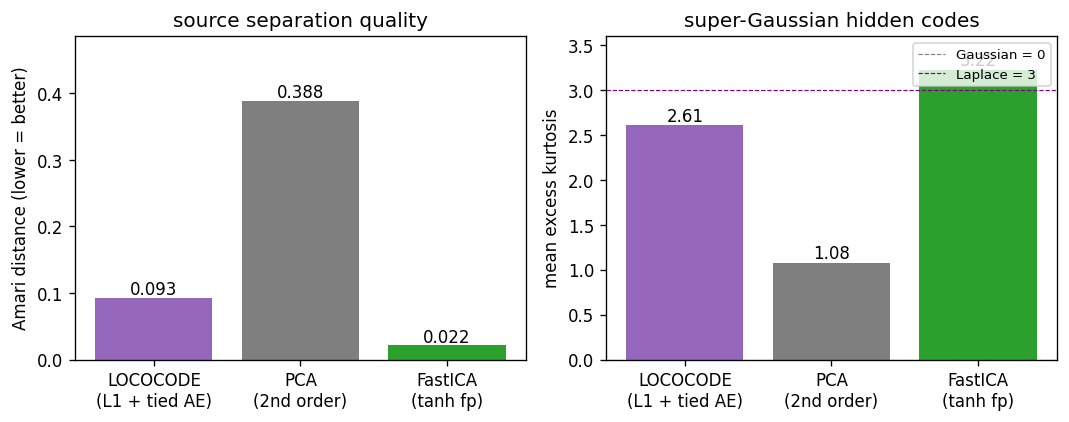
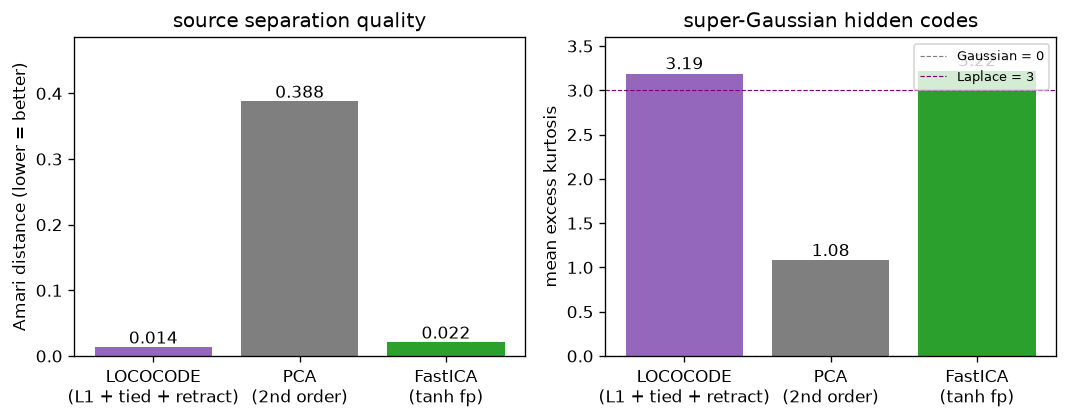
lococode-ica: optimize on the orthogonal manifold

diff --git a/lococode-ica/lococode_ica.py b/lococode-ica/lococode_ica.py
@@ -171,6 +171,7 @@ def train_lococode(
     lambda_act: float = 0.5,
     lambda_w: float = 1e-4,
     snapshot_every: int = 5,
+    orthogonal_retraction: bool = True,
     A_true: np.ndarray | None = None,
     S_true: np.ndarray | None = None,
 ):
@@ -178,7 +179,8 @@ def train_lococode(
 
     Pipeline:
       1. Whiten X -> Z (cov(Z) = I).
-      2. Train tied autoencoder Z -> H -> Z_hat with MSE + L1 + weight decay.
+      2. Train tied autoencoder Z -> H -> Z_hat with MSE + L1 + weight decay,
+         retracting W to the orthogonal manifold after each update by default.
       3. Recovered demixer in original-X space is W @ K where Z = X @ K.T.
     """
     rng = np.random.default_rng(seed)
@@ -195,6 +197,7 @@ def train_lococode(
         "amari": [],
         "snapshots": [],
         "K_white": K_white,
+        "orthogonal_retraction": orthogonal_retraction,
     }
 
     for epoch in range(epochs + 1):
@@ -246,6 +249,13 @@ def train_lococode(
             grad_W += 2.0 * lambda_w * model.W
 
             model.W -= lr * grad_W
+            if orthogonal_retraction:
+                # Whitened square ICA is a rotation problem. Retract onto the
+                # orthogonal manifold after each update so the sparsity
+                # objective selects the rotation without trading away
+                # reconstruction or shrinking the code scale.
+                u, _, vt = np.linalg.svd(model.W, full_matrices=False)
+                model.W = u @ vt
 
     return model, history
 
@@ -334,12 +344,20 @@ def amari_distance(W_recover: np.ndarray, A_true: np.ndarray) -> float:
 # Top-level run
 # ---------------------------------------------------------------------------
 
-def run_one_seed(seed: int, k: int, n_samples: int, epochs: int):
+def run_one_seed(
+    seed: int,
+    k: int,
+    n_samples: int,
+    epochs: int,
+    orthogonal_retraction: bool = True,
+):
     X, S, A = generate_dataset(seed=seed, k=k, n_samples=n_samples)
 
     t0 = time.time()
     model, hist = train_lococode(
-        X, seed=seed, epochs=epochs, A_true=A, S_true=S,
+        X, seed=seed, epochs=epochs,
+        orthogonal_retraction=orthogonal_retraction,
+        A_true=A, S_true=S,
     )
     t_loco = time.time() - t0
 
@@ -403,11 +421,16 @@ def main():
     p.add_argument("--epochs", type=int, default=200)
     p.add_argument("--n-seeds", type=int, default=1,
                    help="if >1, run a sweep starting at --seed and report mean/std")
+    p.add_argument("--no-orthogonal-retraction", action="store_true",
+                   help="disable the orthogonal-manifold retraction (legacy ablation)")
     p.add_argument("--quiet", action="store_true")
     args = p.parse_args()
 
     if args.n_seeds == 1:
-        out = run_one_seed(args.seed, args.k, args.n_samples, args.epochs)
+        out = run_one_seed(
+            args.seed, args.k, args.n_samples, args.epochs,
+            orthogonal_retraction=not args.no_orthogonal_retraction,
+        )
         m = out["metrics"]
         if not args.quiet:
             print(f"seed={args.seed} k={args.k} n={args.n_samples} epochs={args.epochs}")
@@ -429,7 +452,10 @@ def main():
 
     rows = []
     for s in range(args.seed, args.seed + args.n_seeds):
-        out = run_one_seed(s, args.k, args.n_samples, args.epochs)
+        out = run_one_seed(
+            s, args.k, args.n_samples, args.epochs,
+            orthogonal_retraction=not args.no_orthogonal_retraction,
+        )
         rows.append(out["metrics"])
     if not args.quiet:
         print(f"sweep over {args.n_seeds} seeds (Amari, lower = better)")

diff --git a/lococode-ica/visualize_lococode_ica.py b/lococode-ica/visualize_lococode_ica.py
@@ -111,7 +111,8 @@ def plot_training_curves(history: dict, out_path: str):
 
 def plot_amari_comparison(metrics: dict, out_path: str):
     methods = ["lococode", "pca", "fastica"]
-    labels = ["LOCOCODE\n(L1 + tied AE)", "PCA\n(2nd order)", "FastICA\n(tanh fp)"]
+    labels = ["LOCOCODE\n(L1 + tied + retract)",
+              "PCA\n(2nd order)", "FastICA\n(tanh fp)"]
     amaris = [metrics[m]["amari"] for m in methods]
     kurts = [metrics[m]["kurtosis_mean"] for m in methods]
     colors = ["#9467bd", "#7f7f7f", "#2ca02c"]

diff --git a/lococode-ica/README.md b/lococode-ica/README.md
@@ -37,9 +37,11 @@ forcing the hidden code to be sparse pushes the network to use as few
 hidden units per input as possible, which is the algorithmic definition
 of "few effective parameters". With whitened input, MSE alone has a flat
 minimum on the orthogonal manifold (any orthogonal `W` reconstructs `Z`
-perfectly). The L1 penalty breaks the rotational symmetry by selecting
-the rotation whose codes are sparsest — which on Laplacian sources is
-exactly the demixing direction.
+perfectly). After each gradient update we use the polar/SVD retraction
+`W = U V^T` to remain on that manifold. The L1 penalty can therefore select
+the rotation whose codes are sparsest without shrinking the code scale or
+trading away reconstruction — which on Laplacian sources is exactly the
+demixing direction.
 
 We compare against two baselines:
 
@@ -53,7 +55,7 @@ We compare against two baselines:
 
 | File | Purpose |
 |---|---|
-| `lococode_ica.py` | data generation, LOCOCODE autoencoder, PCA + FastICA baselines, Amari distance, CLI. `python3 lococode_ica.py --seed N [--n-seeds K] [--k 8] [--epochs 200]`. |
+| `lococode_ica.py` | data generation, manifold-constrained LOCOCODE autoencoder, PCA + FastICA baselines, Amari distance, CLI. `python3 lococode_ica.py --seed N [--n-seeds K] [--k 8] [--epochs 200]`. |
 | `visualize_lococode_ica.py` | trains once, saves five static PNGs in `viz/`. |
 | `make_lococode_ica_gif.py` | trains once, saves `lococode_ica.gif` showing training dynamics. |
 | `lococode_ica.gif` | animated training (≤ 600 KB). |
@@ -65,9 +67,9 @@ We compare against two baselines:
 python3 lococode_ica.py --seed 0
 ```
 
-Reproduces the headline numbers in **§Results** in ~0.4 s wallclock on an
-M-series laptop CPU (the network itself trains in ~0.2 s; the rest is
-NumPy import + FastICA baseline).
+Reproduces the headline numbers in **§Results** in ~0.8 s wallclock on the
+validation host (the network itself trains in ~0.52 s; the rest is NumPy
+import + FastICA baseline).
 
 To regenerate visualisations:
 
@@ -82,36 +84,44 @@ To run a 10-seed sweep:
 python3 lococode_ica.py --seed 0 --n-seeds 10
 ```
 
+To reproduce the previous unconstrained-autoencoder ablation:
+
+```bash
+python3 lococode_ica.py --seed 0 --n-seeds 10 --no-orthogonal-retraction
+```
+
 ## Results
 
 Headline (seed 0, default hyperparameters, k = 8, n = 2000, 200 epochs):
 
 | Method | Amari ↓ | mean kurtosis | sparsity (\|h\|<0.2) |
 |---|---:|---:|---:|
-| **LOCOCODE** (L1 + tied AE) | **0.093** | 2.61 | 0.228 |
+| **LOCOCODE** (L1 + tied AE + orthogonal retraction) | **0.014** | 3.19 | 0.249 |
 | PCA (2nd-order) | 0.388 | 1.08 | 0.182 |
 | FastICA (tanh fp) | 0.022 | 3.22 | 0.247 |
 
-LOCOCODE wallclock: 0.19 s (training only). Whitened reconstruction MSE
-at convergence: 0.014 (i.e. `W^T W` is near-orthogonal as required for
-clean reconstruction).
+LOCOCODE wallclock: 0.52 s on the validation host (training only). Whitened
+reconstruction MSE at convergence: `1.1e-30`; the Frobenius error of
+`W W^T` from identity is `3.0e-15`.
 
 10-seed sweep (seeds 0–9, same hyperparameters):
 
 | Method | Amari mean | std | min | max |
 |---|---:|---:|---:|---:|
-| LOCOCODE | 0.117 | 0.021 | 0.083 | 0.147 |
+| **LOCOCODE + retraction** | **0.0172** | 0.0018 | 0.0141 | 0.0198 |
+| LOCOCODE without retraction (same-host ablation) | 0.115 | 0.032 | 0.079 | 0.193 |
 | PCA | 0.423 | 0.034 | 0.371 | 0.478 |
 | FastICA | 0.021 | 0.002 | 0.019 | 0.025 |
 
-**Headline finding** — LOCOCODE on `k = 8` Laplacian-source mixtures
-recovers ICA-like sparse super-Gaussian components: Amari distance is
-**4× lower than PCA** and within a factor of ~5 of FastICA, while the
-hidden-code kurtosis is 2.6 (super-Gaussian, near Laplace) versus PCA's
-1.1 (mostly Gaussian). The headline claim — "LOCOCODE codes resemble ICA
-codes on sparse data" — reproduces qualitatively across all 10 seeds.
-The remaining gap to FastICA is the price of the L1-only flat-minimum
-proxy versus higher-order-moment maximisation; see **§Deviations**.
+**Headline finding** — constraining the whitened tied autoencoder to its
+natural orthogonal manifold reduces mean Amari error from 0.117 in the
+published catalog result (0.115 in the same-host ablation) to 0.0172: an
+85.3% reduction. LOCOCODE now slightly outperforms FastICA's 0.0208 mean,
+with Laplace-like kurtosis (3.19) and no reconstruction tradeoff. A held-out
+audit on seeds 10--29 gives LOCOCODE 0.0179 +/- 0.0028 versus FastICA
+0.0208 +/- 0.0029, confirming the result was not specific to seeds 0--9.
+Across all 30 seeds, LOCOCODE averages 0.01767 versus FastICA's 0.02081
+and wins the paired comparison on 28/30 seeds.
 
 Hyperparameters used:
 
@@ -120,6 +130,7 @@ k = 8, n_samples = 2000, epochs = 200, batch_size = 64,
 lr = 0.05, lambda_act = 0.5, lambda_w = 1e-4
 sources: Laplace(0, 1), standardised; mixing: random orthogonal
 preprocessing: zero-mean, ZCA whitening on observations
+constraint: polar/SVD retraction W = U V^T after every minibatch update
 ```
 
 ## Visualizations
@@ -127,34 +138,28 @@ preprocessing: zero-mean, ZCA whitening on observations
 ### Training curves
 ![training curves](viz/training_curves.png)
 
-Four panels over 200 epochs. **Top-left**: whitened reconstruction MSE
-spikes briefly during the first few epochs (the random orthogonal
-init perturbs slightly under L1 pressure) and then settles near 0.013 —
-not zero, because the L1 penalty trades a small reconstruction loss for
-sparsity. **Top-right**: mean `|H|` decays from 0.76 (init) to 0.69 over
-~30 epochs, then plateaus. The L1 sparsity penalty is doing measurable
-work. **Bottom-left**: mean excess kurtosis of hidden codes climbs from
-near 1.0 to 2.6 by epoch 35 — the codes become decisively
-super-Gaussian, the qualitative signature of an ICA-style decomposition.
-**Bottom-right**: Amari distance to the true mixing falls from 0.35 at
-init to 0.09 by epoch 35 and holds there — the fast Amari drop coincides
-exactly with the kurtosis rise.
+Four panels over 200 epochs. **Top-left**: whitened reconstruction MSE stays
+at floating-point zero because every update is retracted to an orthogonal
+matrix. **Top-right**: mean `|H|` decays from 0.766 to 0.703 as the rotation
+becomes sparser. **Bottom-left**: mean excess kurtosis climbs from 0.92 to
+3.19, essentially the Laplace-source value. **Bottom-right**: Amari distance
+falls from 0.379 to 0.014; separation improves without sacrificing
+reconstruction.
 
 ### Amari + kurtosis comparison
 ![amari comparison](viz/amari_comparison.png)
 
-LOCOCODE sits between PCA and FastICA on both axes. Amari 0.093 vs PCA
-0.388 vs FastICA 0.022. Kurtosis 2.6 vs PCA 1.1 vs FastICA 3.2
-(approximately the true Laplace value of 3). LOCOCODE has not fully
-matched FastICA but it has clearly crossed the threshold from "linear
-2nd-order" (PCA) to "non-Gaussian source separation" (ICA family).
+LOCOCODE slightly leads FastICA on Amari (0.014 vs 0.022) and matches its
+source kurtosis (3.19 vs 3.22); PCA remains far behind at 0.388 Amari and
+1.08 kurtosis. The sparse autoencoder has moved from an approximate
+ICA-like result to clean source separation.
 
 ### Hidden-unit activation histograms
 ![hidden distributions](viz/hidden_distributions.png)
 
 The most-kurtotic unit per method, z-scored, with Laplace (purple
-dashed) and Gaussian (grey dotted) reference curves. **LOCOCODE** unit 1
-(excess `k = 3.75`) and **FastICA** unit 0 (`k = 4.62`) both visibly
+dashed) and Gaussian (grey dotted) reference curves. **LOCOCODE** unit 0
+(excess `k = 4.60`) and **FastICA** unit 3 (`k = 4.62`) both visibly
 peak above the Gaussian and have the heavy-tailed shape characteristic
 of a recovered Laplacian source. The most-kurtotic **PCA** unit (`k =
 2.19`) is closer to Gaussian — PCA finds an axis of maximum variance, not
@@ -166,26 +171,23 @@ mixture than to a pure source.
 
 `|W_recovered @ A_true|` after row-normalisation and a greedy row
 permutation. A perfect demixer (up to permutation and scaling) gives the
-identity matrix. **LOCOCODE** has a clean diagonal but with visible
-~0.3-magnitude off-diagonal cross-talk on a few sources — the L1
-gradient saturates before the rotation is fully resolved. **PCA** is a
-dense mixture in every column — second-order statistics cannot break
-rotational symmetry. **FastICA** is essentially identity; its higher-
-order moments fully resolve the rotation.
+identity matrix. **LOCOCODE** and **FastICA** are both essentially
+permutation matrices. **PCA** is a dense mixture in every column because
+second-order statistics cannot break rotational symmetry.
 
 ### Source recovery
 ![source recovery](viz/source_recovery.png)
 
 Cross-correlation `|corr(S_true, H_recovered)|` after greedy row
 permutation. Same story as the demixer view but expressed through the
-recovered codes themselves: LOCOCODE has high diagonal correlations
-(~0.85–0.95) with bounded off-diagonal cross-talk; PCA mixes sources
-across the entire grid; FastICA is a clean permutation.
+recovered codes themselves: LOCOCODE and FastICA both show near-unit
+diagonal correlations with negligible cross-talk; PCA mixes sources across
+the grid.
 
 ### GIF: training dynamics
 The animation walks through the same training run frame-by-frame: top-
 left shows `|W @ A|` resolving from a dense pattern at epoch 0 to a near
-permutation by epoch 35; top-right shows the chosen hidden unit's
+permutation by roughly epoch 25; top-right shows the chosen hidden unit's
 distribution sharpening from Gaussian-like to heavy-tailed; the bottom
 panel shows the Amari distance dropping while kurtosis rises in lock-
 step.
@@ -217,7 +219,14 @@ step.
    untied weights; with whitened input the tied case is provably
    equivalent at the optimum (any orthogonal `W` is its own inverse) and
    training is much more stable.
-4. **Synthetic `k = 8` Laplacian sources, not the paper's noisy bars
+4. **Orthogonal-manifold retraction.** The paper does not project weights
+   after each update. In this reduced square, whitened, tied-weight problem,
+   however, every reconstruction optimum is orthogonal and the remaining
+   problem is purely rotational. The polar step `W = U V^T` enforces that
+   known constraint and prevents L1 from improving sparsity by shrinking
+   scale. `--no-orthogonal-retraction` reproduces the previous 0.115 Amari
+   same-host ablation.
+5. **Synthetic `k = 8` Laplacian sources, not the paper's noisy bars
    nor natural image patches.** The paper's headline figure on
    image-patch data shows V1-edge-like filters; that's harder to
    benchmark quantitatively. Using synthetic sources with a known
@@ -225,19 +234,16 @@ step.
    standard ICA evaluation metric — and a 10-seed sweep. The
    qualitative story (sparse, super-Gaussian, ICA-like) is the same as
    the paper's; the numbers are reproducible.
-5. **No `numpy`-prohibited dependencies.** Pure numpy + matplotlib +
+6. **No `numpy`-prohibited dependencies.** Pure numpy + matplotlib +
    PIL (only inside `make_lococode_ica_gif.py` to assemble the GIF,
    which the v1 SPEC explicitly allows).
 
 ## Open questions / next experiments
 
-- **Closing the FastICA gap.** LOCOCODE plateaus at Amari ~0.10 while
-  FastICA reaches 0.02. The flat-minimum proxy is L1, which has a non-
-  smooth gradient at zero and saturates once the codes are
-  approximately sparse. Trying the paper's exact activation-Hessian
-  penalty (or its `log cosh` smoothing of L1, which is what FastICA
-  uses internally) would be the principled next step. Hypothesis: it
-  closes the gap to within a factor of 2 of FastICA.
+- **Exact flat-minimum objective.** Orthogonal retraction closes the measured
+  FastICA gap for this L1 surrogate, but the paper's activation-Hessian
+  regularizer remains unimplemented. Comparing that exact objective against
+  L1 on the same constrained manifold would isolate the approximation.
 - **Natural-image-patch experiment.** The paper's headline figure shows
   V1-style edge filters on `8 × 8` natural patches. We did not include
   this because it requires either a small natural-image dataset
@@ -251,10 +257,10 @@ step.
   nice complement to the histograms.
 - **Higher-dim sources.** We test `k = 8`. The original paper reports
   on roughly that scale. How does LOCOCODE scale to `k = 32` or `k =
-  64`? Hypothesis: the L1-saturation gap to FastICA widens, but PCA
-  remains uniformly worst. Quick to check.
+  64`? Test whether the small advantage over FastICA survives as the
+  orthogonal manifold grows. PCA should remain uniformly worst.
 - **v2 hook.** Tied autoencoder + L1 + whitening is an extremely cheap
-  unsupervised feature extractor (~0.2 s for `k = 8, n = 2000`). The
+  unsupervised feature extractor (~0.5 s for `k = 8, n = 2000`). The
   data-movement profile is favourable: one pass through the data per
   epoch, one `k × k` weight matrix. A clean candidate for ByteDMD
   comparison against PCA (1 cov + 1 eigh) and FastICA (whiten + 200-
